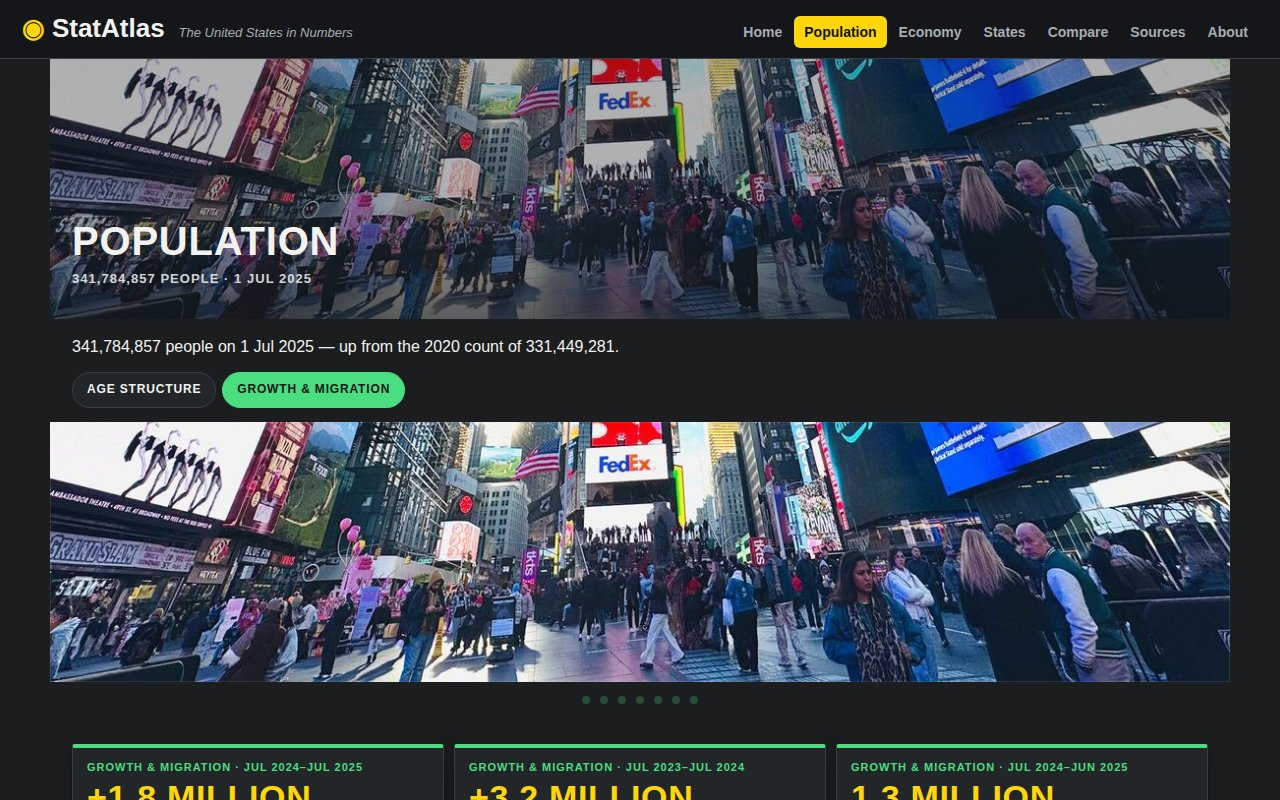
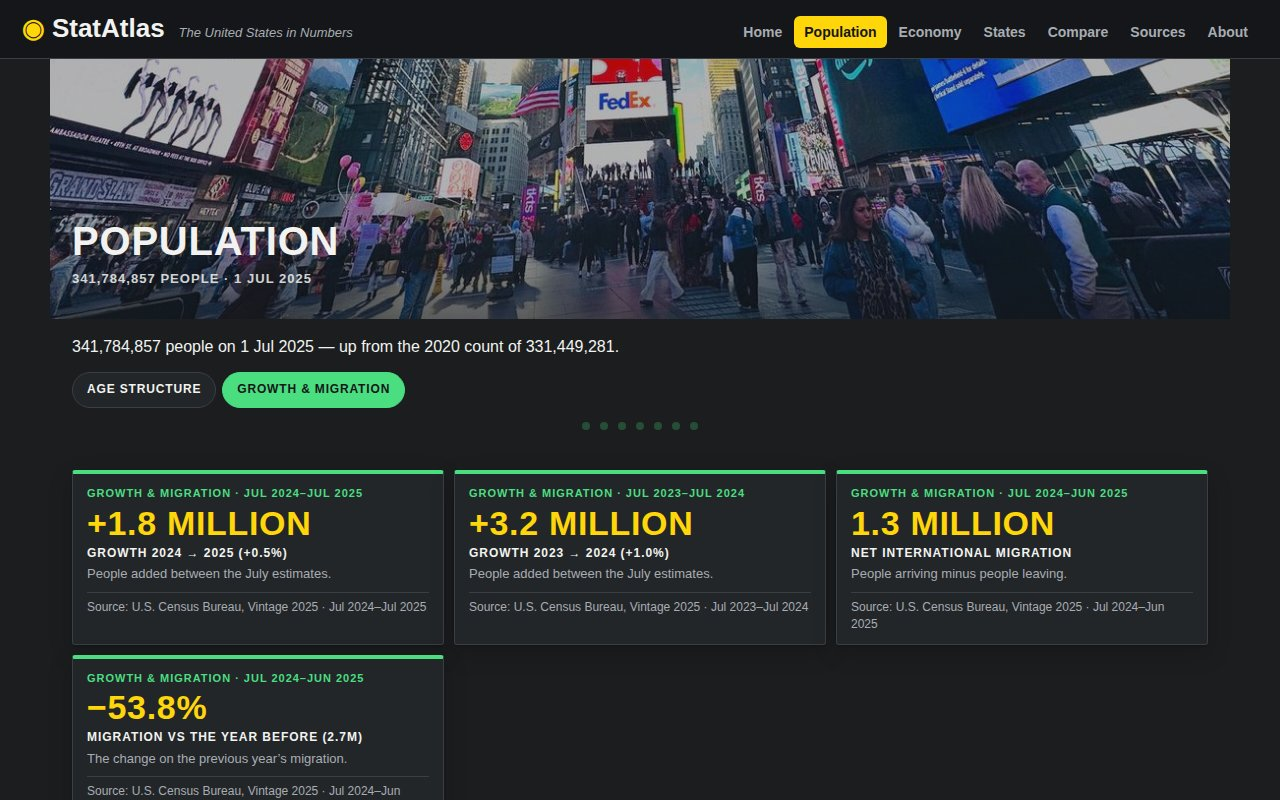
fix pass 3b: Red Team fixes — de-duplicate photos, NYSE lettering, duo alignment, strip vintage

Changed region(s): [[0.0312, 0.5, 0.9688, 1.0]]

diff --git a/app/pages.js b/app/pages.js
@@ -98,8 +98,8 @@ export function renderHome() {
     // The brief's "50 states + DC" cell was DROPPED: that figure appears
     // nowhere on the site, so it would have been a new number.
     + '<section class="numbers-strip"><div class="numbers-row">'
-    + '<div><div class="num-value">3,533,038</div><div class="num-label">Sq mi land area</div></div>'
-    + '<div><div class="num-value">93.8</div><div class="num-label">People per sq mi</div></div>'
+    + '<div><div class="num-value">3,533,038</div><div class="num-label">Sq mi land area · 2020</div></div>'
+    + '<div><div class="num-value">93.8</div><div class="num-label">People per sq mi · 2020</div></div>'
     + '<div><div class="num-value">331,449,281</div><div class="num-label">People counted in the 2020 census</div></div>'
     + '</div></section>'
     + '<div class="duo">'
@@ -154,7 +154,6 @@ export function renderPopulation(state) {
     + '<button data-poptab="age" class="' + (tab === 'age' ? 'on' : '') + '">Age structure</button>'
     + '<button data-poptab="growth" class="' + (tab === 'growth' ? 'on' : '') + '">Growth &amp; migration</button>'
     + '</div>'
-    + '<figure class="photo-strip"><img src="img/population.jpg" alt="Daytime view of Times Square in New York City, with billboards and a bustling crowd." loading="lazy"></figure>'
     + '<div class="people-dots" aria-hidden="true"><i></i><i></i><i></i><i></i><i></i><i></i><i></i></div>'
     + '<div class="ground ground-teal">' + body + '</div>'
     + '<div class="panel"><h2>People at a glance</h2><dl class="facts">'
@@ -229,7 +228,6 @@ export function renderEconomy(state) {
     + '<button data-ecotab="housing" class="' + (tab === 'housing' ? 'on' : '') + '">Housing</button>'
     + '<button data-ecotab="business" class="' + (tab === 'business' ? 'on' : '') + '">Business &amp; education</button>'
     + '</div>'
-    + '<figure class="photo-strip"><img src="img/economy.jpg" alt="The New York Stock Exchange facade with columns in New York City." loading="lazy"></figure>'
     + '<div class="ground ground-slate">' + body + '</div>';
 }
 
@@ -302,7 +300,6 @@ export function renderCompare() {
 export function renderSources(rows) {
   return '<section class="band band-sources"><h1>Sources</h1><p class="band-sub">Every figure · its value · its vintage</p></section>'
     + '<p class="lede">Every figure on this site, with its value, vintage and where it came from. Full web addresses are given as plain text so the page works with no network at all.</p>'
-    + '<figure class="photo-strip"><img src="img/sources.jpg" alt="Stacks of old documents and papers piled on dusty shelves." loading="lazy"></figure>'
     + '<div class="panel"><table class="full src-table"><thead><tr><th>Code</th><th>Figure</th><th>Value</th><th>Vintage</th><th>Source</th><th>Location</th></tr></thead><tbody>'
     + rows.map(function (r) {
         return '<tr><td>' + r[0] + '</td><td>' + r[1] + '</td><td><strong>' + r[2] + '</strong></td><td>' + r[3] + '</td><td>' + r[4] + '</td><td><code>' + r[5] + '</code></td></tr>';

diff --git a/app/style.css b/app/style.css
@@ -106,7 +106,7 @@ main { max-width: 1180px; margin: 0 auto; padding: 0 22px 30px; }
   font-size: 12px; color: var(--muted); margin-top: 8px;
   border-top: 1px solid var(--line); padding-top: 6px;
 }
-.duo { display: grid; grid-template-columns: 1.15fr 1fr; gap: 12px; margin-bottom: 8px; }
+.duo { display: grid; grid-template-columns: 1.15fr 1fr; gap: 12px; margin-bottom: 8px; align-items: start; }
 .panel {
   background: var(--card); border: 1px solid var(--line); border-radius: 3px;
   padding: 14px 16px; margin-bottom: 12px;
@@ -218,16 +218,15 @@ footer p { max-width: 1136px; margin: 0 auto 10px; }
 }
 .band-economy {
   background-image: linear-gradient(rgba(20, 22, 25, .30), rgba(20, 22, 25, .30)), linear-gradient(to top, rgba(20, 22, 25, .55) 0%, rgba(20, 22, 25, 0) 45%), url(img/economy.jpg);
-  background-position: center, center, center;
+  background-position: center, center, center 0%;
 }
 .band-states {
   background-image: linear-gradient(rgba(20, 22, 25, .30), rgba(20, 22, 25, .30)), linear-gradient(to top, rgba(20, 22, 25, .55) 0%, rgba(20, 22, 25, 0) 45%), url(img/states.jpg);
   background-position: center, center, center 68%;
 }
-.band-compare {
-  background-image: linear-gradient(rgba(20, 22, 25, .30), rgba(20, 22, 25, .30)), linear-gradient(to top, rgba(20, 22, 25, .55) 0%, rgba(20, 22, 25, 0) 45%), url(img/compare-us.jpg);
-  background-position: center, center, center;
-}
+/* Fix pass 3b (F1): Compare band is a plain --bg-deep band, no photo —
+   the Compare duo below it is that route's single photo moment. */
+.band-compare {}
 .band-sources {
   background-image: linear-gradient(rgba(20, 22, 25, .30), rgba(20, 22, 25, .30)), linear-gradient(to top, rgba(20, 22, 25, .55) 0%, rgba(20, 22, 25, 0) 45%), url(img/sources.jpg);
   background-position: center, center, center;
